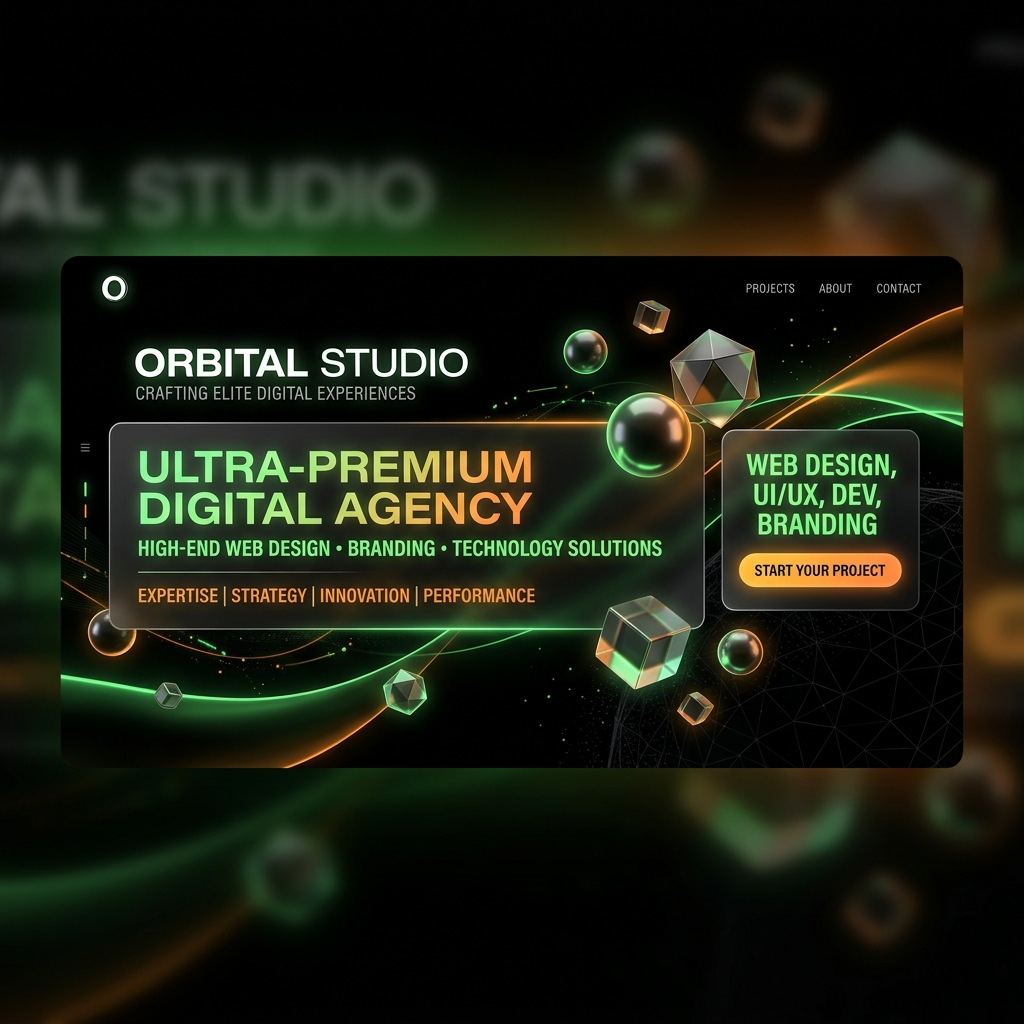
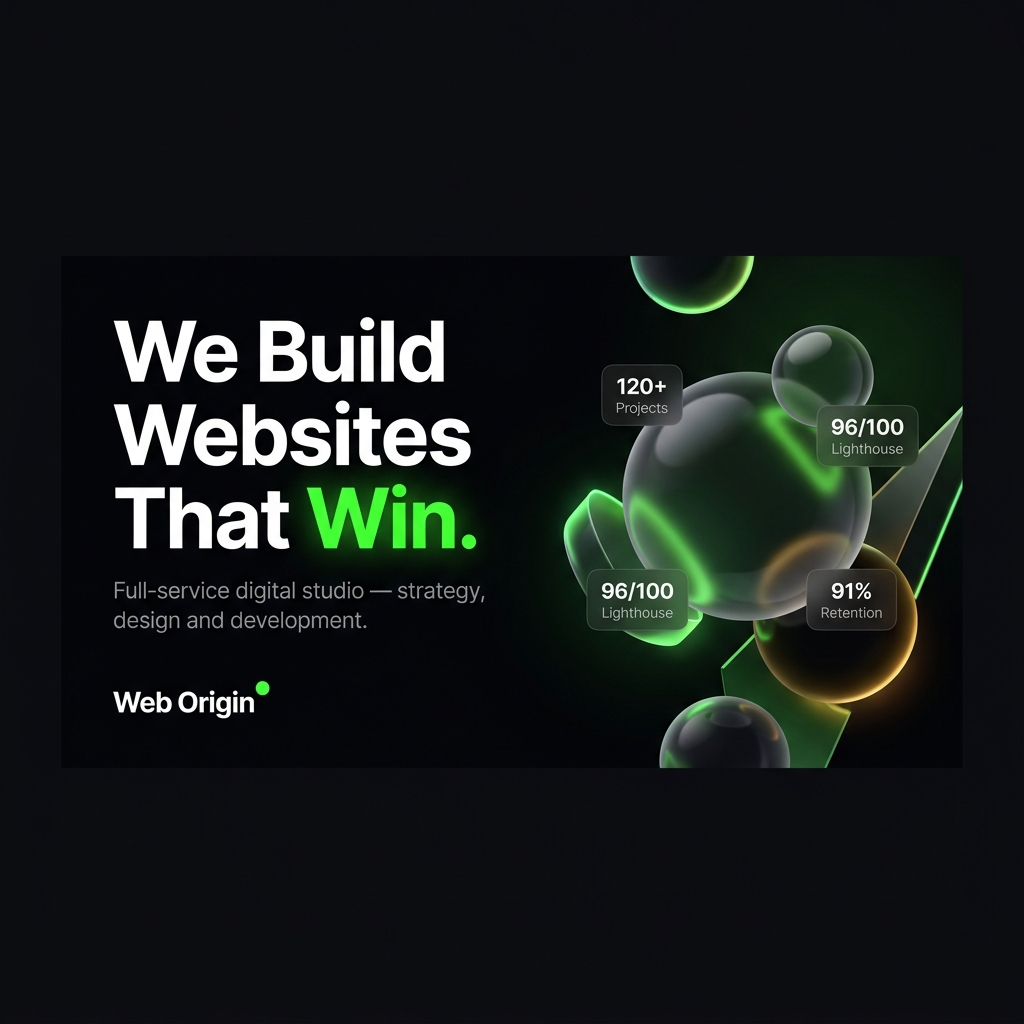
feat: implement root layout with optimized font loading, SEO metadata, and dynamic script injection

diff --git a/app/layout.tsx b/app/layout.tsx
@@ -31,9 +31,10 @@ const funnelDisplay = Funnel_Display({
   adjustFontFallback: true,
 });
 
-const baseUrl = process.env.VERCEL_URL
-  ? `https://${process.env.VERCEL_URL}`
-  : "https://theweborigin.com";
+// IMPORTANT: never use VERCEL_URL — it resolves to the preview deployment URL
+// (e.g. my-project-abc.vercel.app), which is auth-protected on Vercel.
+// Social media crawlers get blocked trying to fetch the OG image from that URL.
+const baseUrl = process.env.NEXT_PUBLIC_SITE_URL ?? "https://theweborigin.com";
 
 export const metadata: Metadata = {
   title: "Web Origin — Digital Studio for Ambitious Brands",